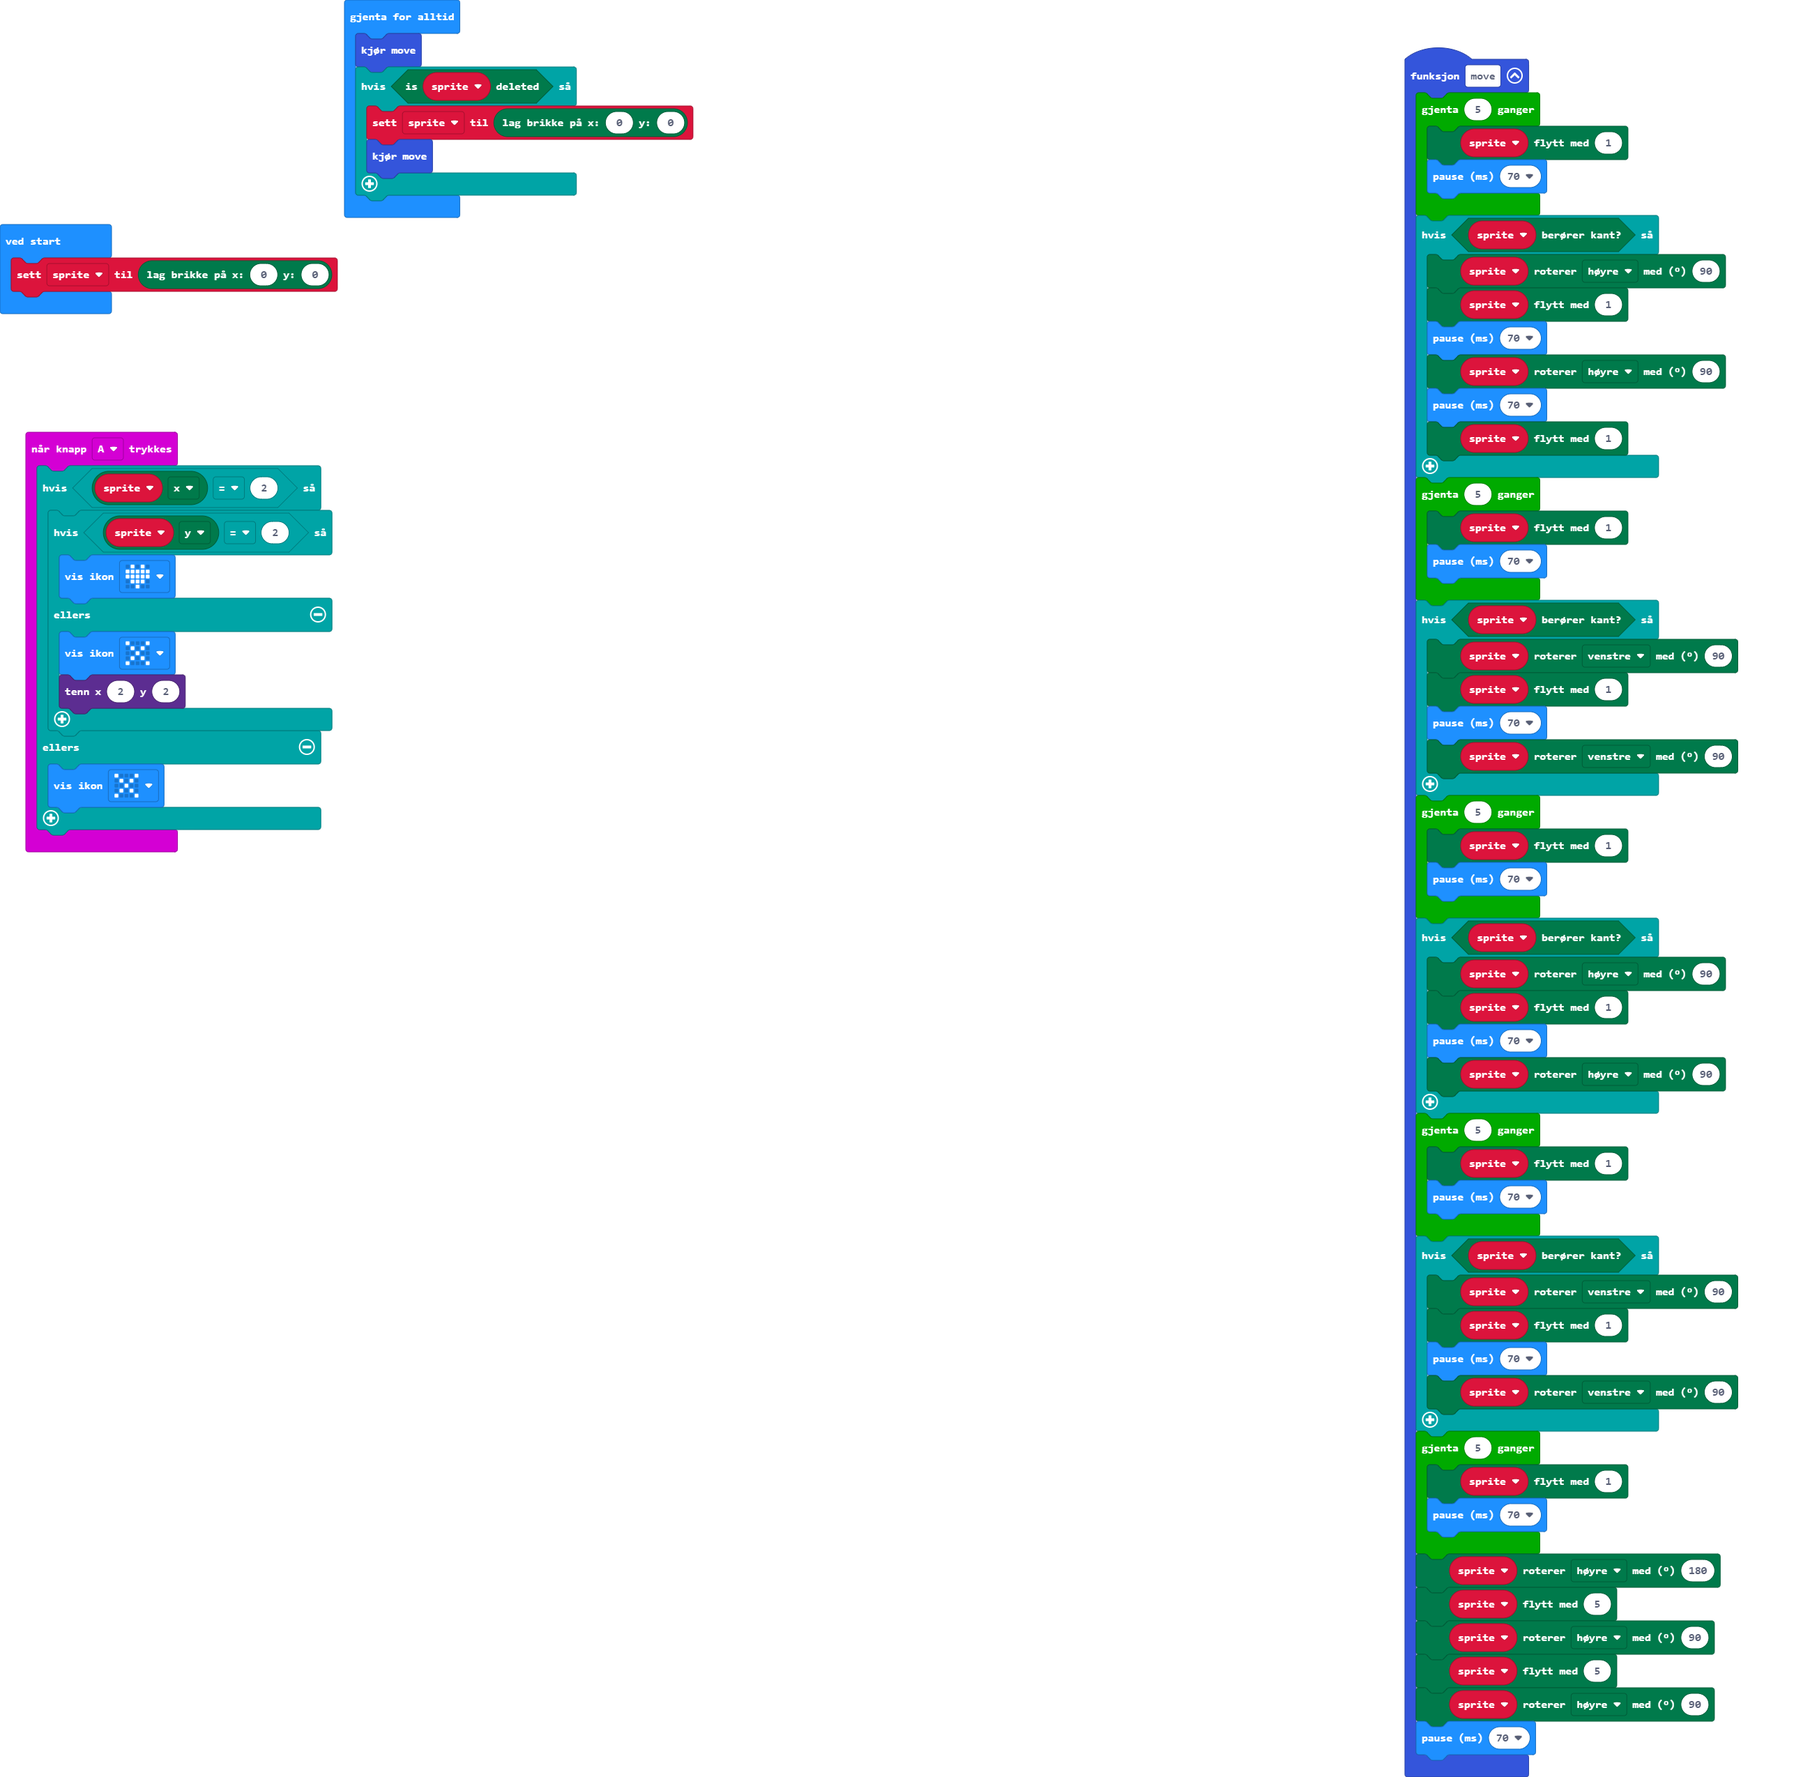
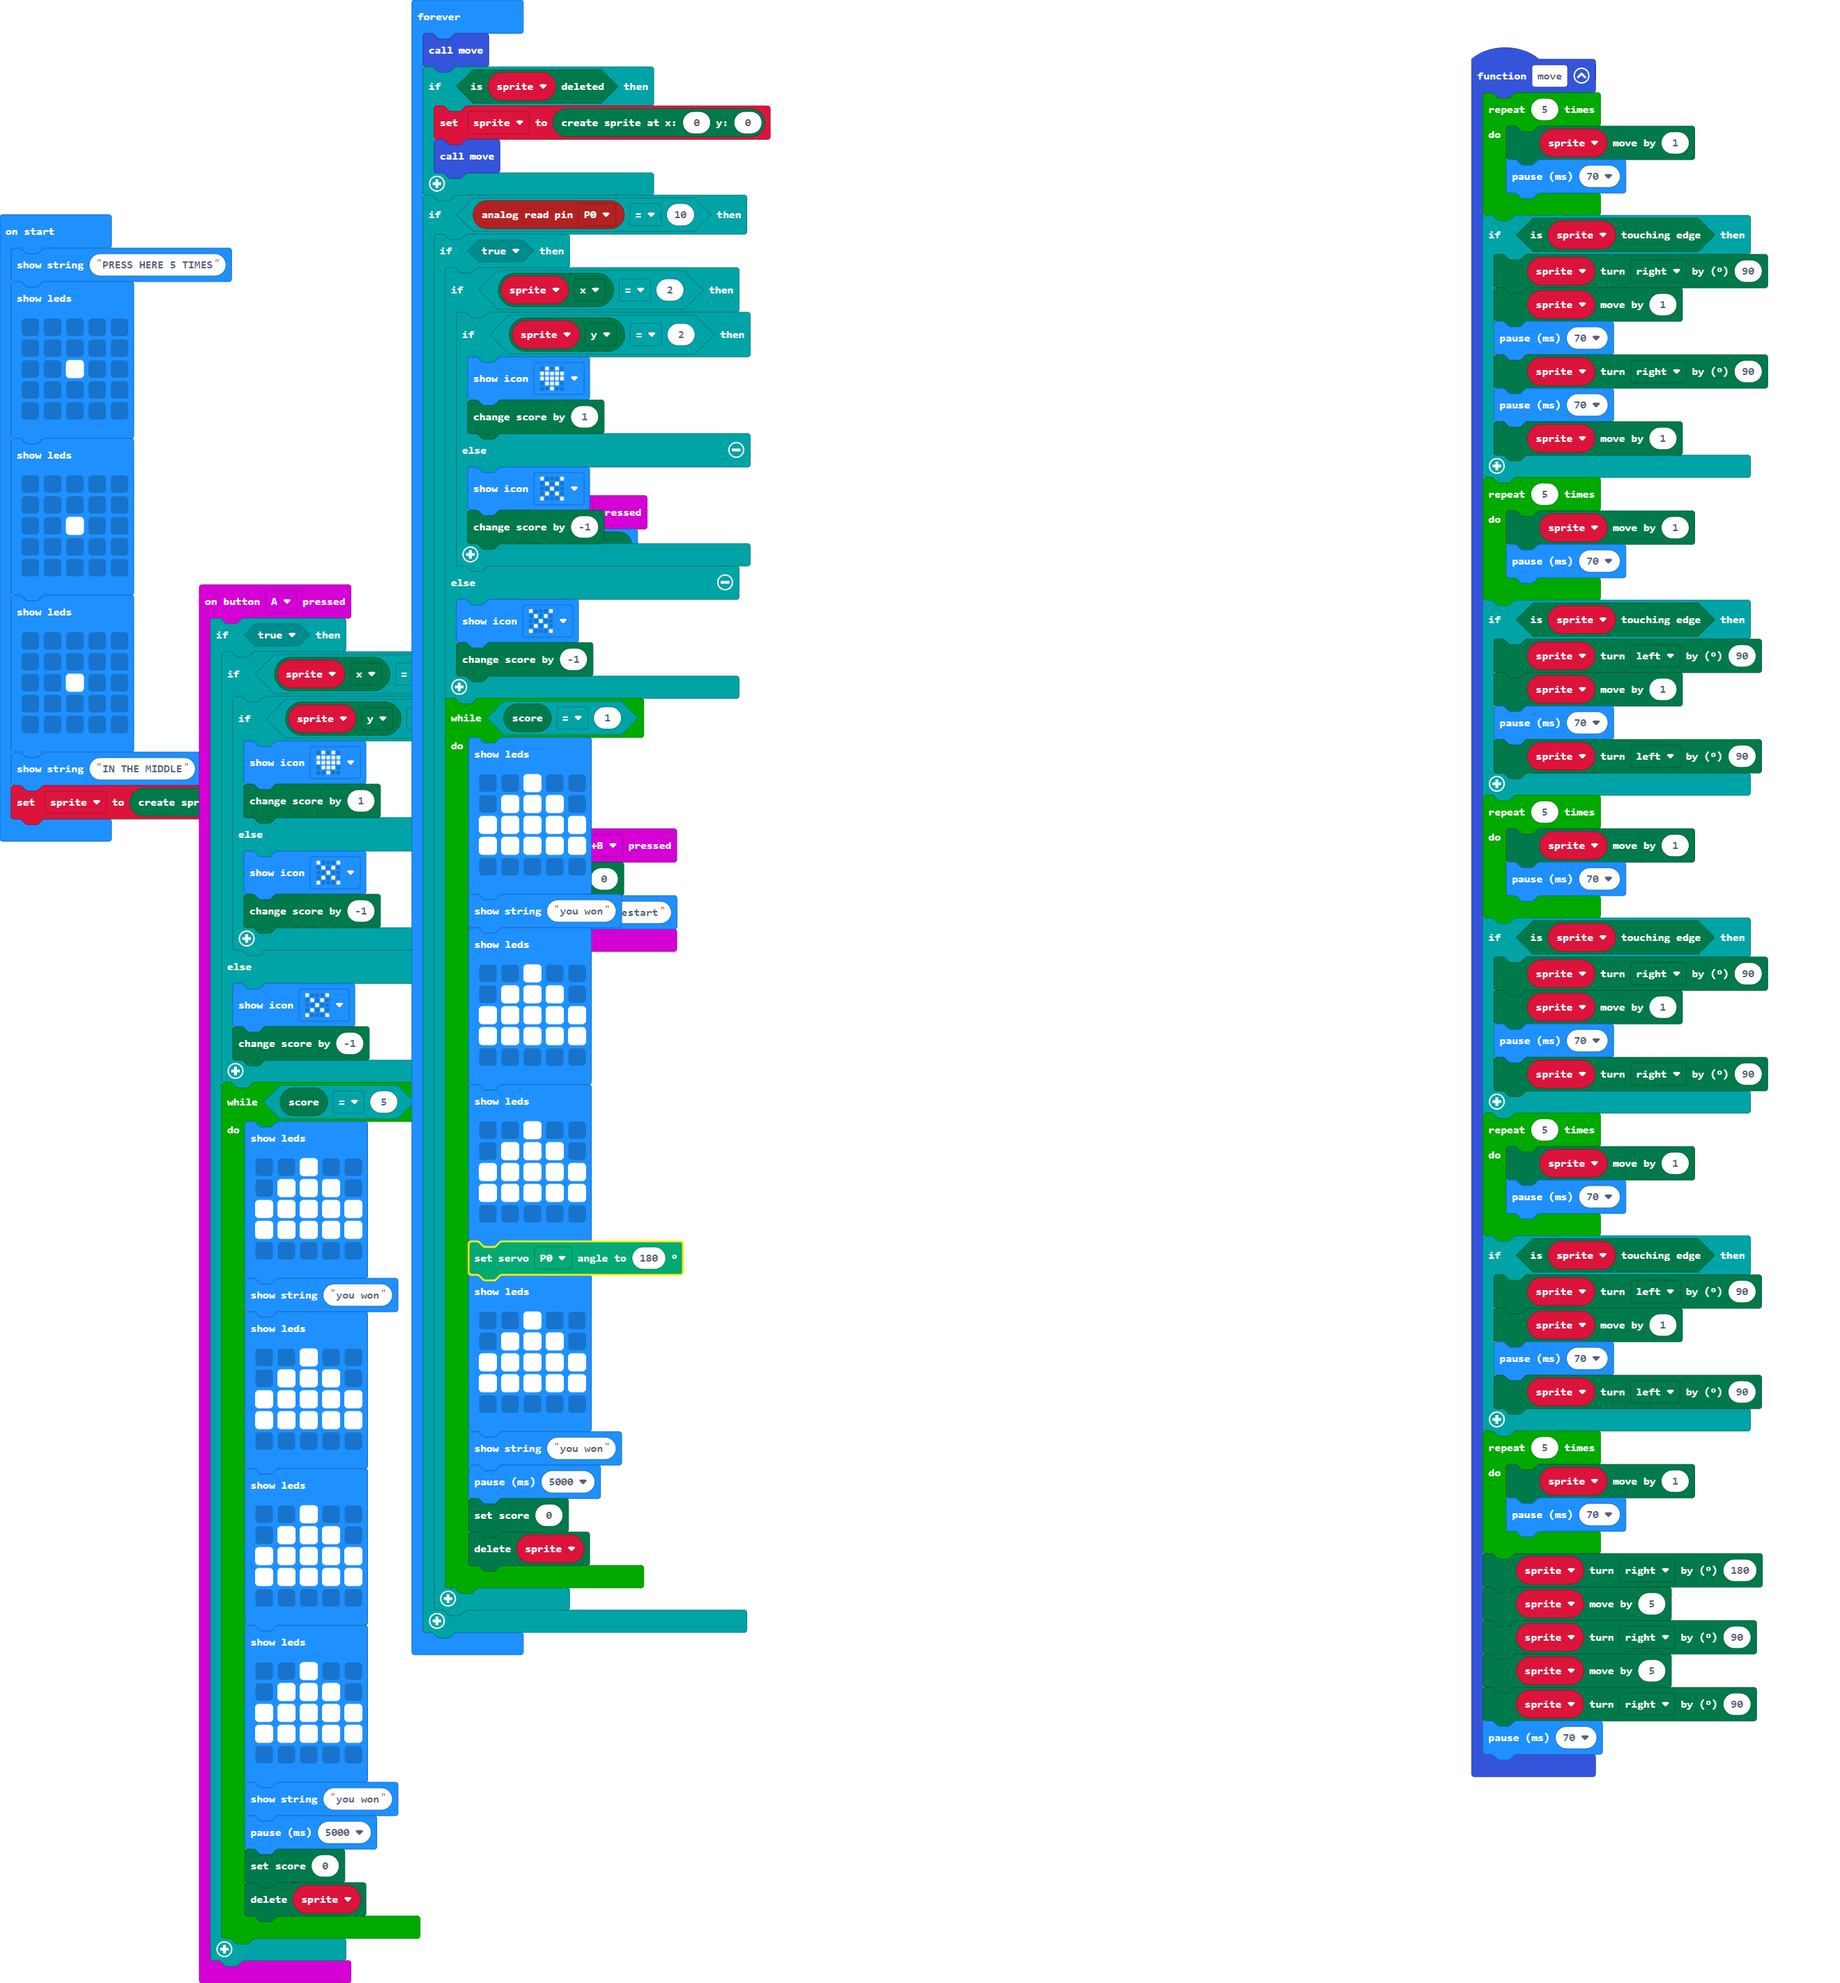
Update pxt.json, main.blocks, main.ts, main.py

diff --git a/main.ts b/main.ts
@@ -1,14 +1,60 @@
 input.onButtonPressed(Button.A, function () {
-    if (sprite.get(LedSpriteProperty.X) == 2) {
-        if (sprite.get(LedSpriteProperty.Y) == 2) {
-            basic.showIcon(IconNames.Heart)
+    if (true) {
+        if (sprite.get(LedSpriteProperty.X) == 2) {
+            if (sprite.get(LedSpriteProperty.Y) == 2) {
+                basic.showIcon(IconNames.Heart)
+                game.addScore(1)
+            } else {
+                basic.showIcon(IconNames.No)
+                game.addScore(-1)
+            }
         } else {
             basic.showIcon(IconNames.No)
-            led.plot(2, 2)
+            game.addScore(-1)
         }
-    } else {
-        basic.showIcon(IconNames.No)
+        while (game.score() == 5) {
+            basic.showLeds(`
+                . . # . .
+                . # # # .
+                # # # # #
+                # # # # #
+                . . . . .
+                `)
+            basic.showString("you won")
+            basic.showLeds(`
+                . . # . .
+                . # # # .
+                # # # # #
+                # # # # #
+                . . . . .
+                `)
+            basic.showLeds(`
+                . . # . .
+                . # # # .
+                # # # # #
+                # # # # #
+                . . . . .
+                `)
+            basic.showLeds(`
+                . . # . .
+                . # # # .
+                # # # # #
+                # # # # #
+                . . . . .
+                `)
+            basic.showString("you won")
+            basic.pause(5000)
+            game.setScore(0)
+            sprite.delete()
+        }
     }
+})
+input.onButtonPressed(Button.AB, function () {
+    game.setScore(0)
+    basic.showString("restart")
+})
+input.onButtonPressed(Button.B, function () {
+    basic.showNumber(game.score())
 })
 function move () {
     for (let index = 0; index < 5; index++) {
@@ -65,11 +111,86 @@ function move () {
     basic.pause(70)
 }
 let sprite: game.LedSprite = null
-sprite = game.createSprite(0, 0)
+basic.showString("PRESS HERE 5 TIMES")
+basic.showLeds(`
+    . . . . .
+    . . . . .
+    . . # . .
+    . . . . .
+    . . . . .
+    `)
+basic.showLeds(`
+    . . . . .
+    . . . . .
+    . . # . .
+    . . . . .
+    . . . . .
+    `)
+basic.showLeds(`
+    . . . . .
+    . . . . .
+    . . # . .
+    . . . . .
+    . . . . .
+    `)
+basic.showString("IN THE MIDDLE")
+sprite = game.createSprite(2, 2)
 basic.forever(function () {
     move()
     if (sprite.isDeleted()) {
         sprite = game.createSprite(0, 0)
         move()
+    }
+    if (pins.analogReadPin(AnalogPin.P0) == 10) {
+        if (true) {
+            if (sprite.get(LedSpriteProperty.X) == 2) {
+                if (sprite.get(LedSpriteProperty.Y) == 2) {
+                    basic.showIcon(IconNames.Heart)
+                    game.addScore(1)
+                } else {
+                    basic.showIcon(IconNames.No)
+                    game.addScore(-1)
+                }
+            } else {
+                basic.showIcon(IconNames.No)
+                game.addScore(-1)
+            }
+            while (game.score() == 1) {
+                basic.showLeds(`
+                    . . # . .
+                    . # # # .
+                    # # # # #
+                    # # # # #
+                    . . . . .
+                    `)
+                basic.showString("you won")
+                basic.showLeds(`
+                    . . # . .
+                    . # # # .
+                    # # # # #
+                    # # # # #
+                    . . . . .
+                    `)
+                basic.showLeds(`
+                    . . # . .
+                    . # # # .
+                    # # # # #
+                    # # # # #
+                    . . . . .
+                    `)
+                servos.P0.setAngle(180)
+                basic.showLeds(`
+                    . . # . .
+                    . # # # .
+                    # # # # #
+                    # # # # #
+                    . . . . .
+                    `)
+                basic.showString("you won")
+                basic.pause(5000)
+                game.setScore(0)
+                sprite.delete()
+            }
+        }
     }
 })

diff --git a/main.py b/main.py
@@ -1,0 +1,110 @@
+def on_button_pressed_a():
+    if sprite.get(LedSpriteProperty.X) == 2:
+        if sprite.get(LedSpriteProperty.Y) == 2:
+            basic.show_icon(IconNames.HEART)
+            game.add_score(1)
+        else:
+            basic.show_icon(IconNames.NO)
+            game.add_score(-1)
+    else:
+        basic.show_icon(IconNames.NO)
+        game.add_score(-1)
+    while game.score() == 5:
+        basic.show_leds("""
+            . . # . .
+            . # # # .
+            # # # # #
+            # # # # #
+            . . . . .
+            """)
+        basic.show_string("you won")
+        basic.show_leds("""
+            . . # . .
+            . # # # .
+            # # # # #
+            # # # # #
+            . . . . .
+            """)
+        basic.show_string("you won")
+        basic.pause(5000)
+        game.set_score(0)
+        sprite.delete()
+input.on_button_pressed(Button.A, on_button_pressed_a)
+
+def on_button_pressed_ab():
+    game.set_score(0)
+    basic.show_string("restart")
+input.on_button_pressed(Button.AB, on_button_pressed_ab)
+
+def on_button_pressed_b():
+    basic.show_number(game.score())
+input.on_button_pressed(Button.B, on_button_pressed_b)
+
+def move():
+    for index in range(5):
+        sprite.move(1)
+        basic.pause(70)
+    if sprite.is_touching_edge():
+        sprite.turn(Direction.RIGHT, 90)
+        sprite.move(1)
+        basic.pause(70)
+        sprite.turn(Direction.RIGHT, 90)
+        basic.pause(70)
+        sprite.move(1)
+    for index2 in range(5):
+        sprite.move(1)
+        basic.pause(70)
+    if sprite.is_touching_edge():
+        sprite.turn(Direction.LEFT, 90)
+        sprite.move(1)
+        basic.pause(70)
+        sprite.turn(Direction.LEFT, 90)
+    for index3 in range(5):
+        sprite.move(1)
+        basic.pause(70)
+    if sprite.is_touching_edge():
+        sprite.turn(Direction.RIGHT, 90)
+        sprite.move(1)
+        basic.pause(70)
+        sprite.turn(Direction.RIGHT, 90)
+    for index4 in range(5):
+        sprite.move(1)
+        basic.pause(70)
+    if sprite.is_touching_edge():
+        sprite.turn(Direction.LEFT, 90)
+        sprite.move(1)
+        basic.pause(70)
+        sprite.turn(Direction.LEFT, 90)
+    for index5 in range(5):
+        sprite.move(1)
+        basic.pause(70)
+    sprite.turn(Direction.RIGHT, 180)
+    sprite.move(5)
+    sprite.turn(Direction.RIGHT, 90)
+    sprite.move(5)
+    sprite.turn(Direction.RIGHT, 90)
+    basic.pause(70)
+sprite: game.LedSprite = None
+basic.show_string("GET 5 POINTS")
+basic.show_string("PRESS HERE")
+basic.show_leds("""
+    . . . . .
+    . . . . .
+    . . # . .
+    . . . . .
+    . . . . .
+    """)
+basic.show_string("INN THE MIDEL")
+sprite = game.create_sprite(2, 2)
+
+def on_forever():
+    global sprite
+    move()
+    if sprite.is_deleted():
+        sprite = game.create_sprite(0, 0)
+        move()
+basic.forever(on_forever)
+
+def on_forever2():
+    soundExpression.mysterious.play()
+basic.forever(on_forever2)
